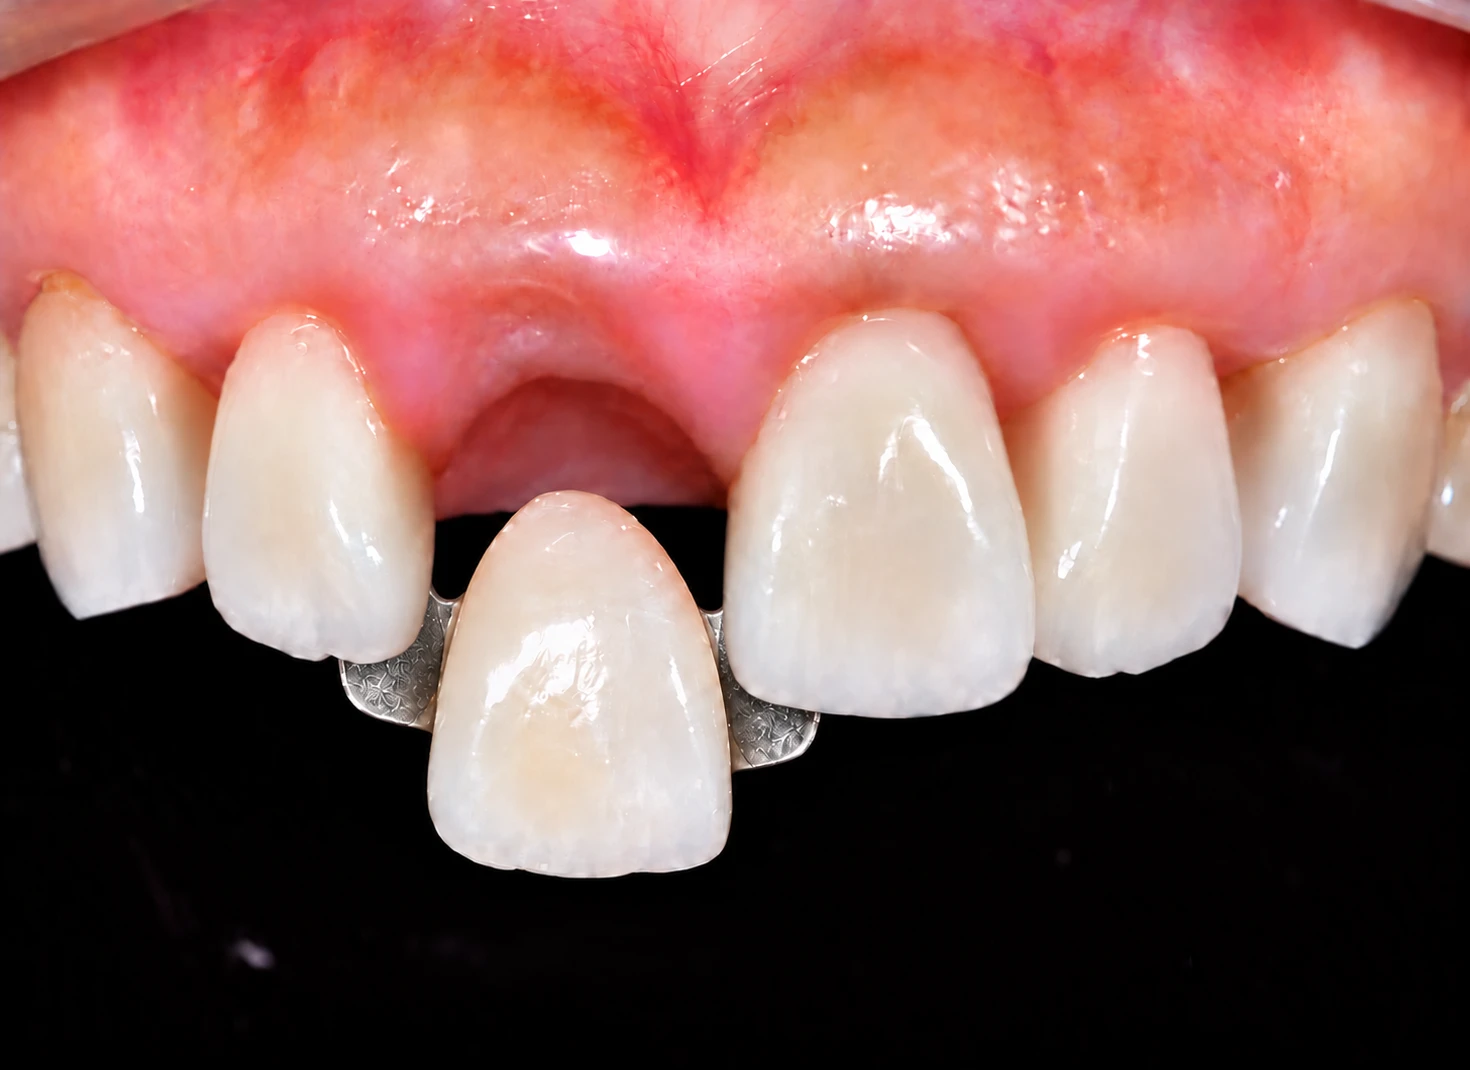
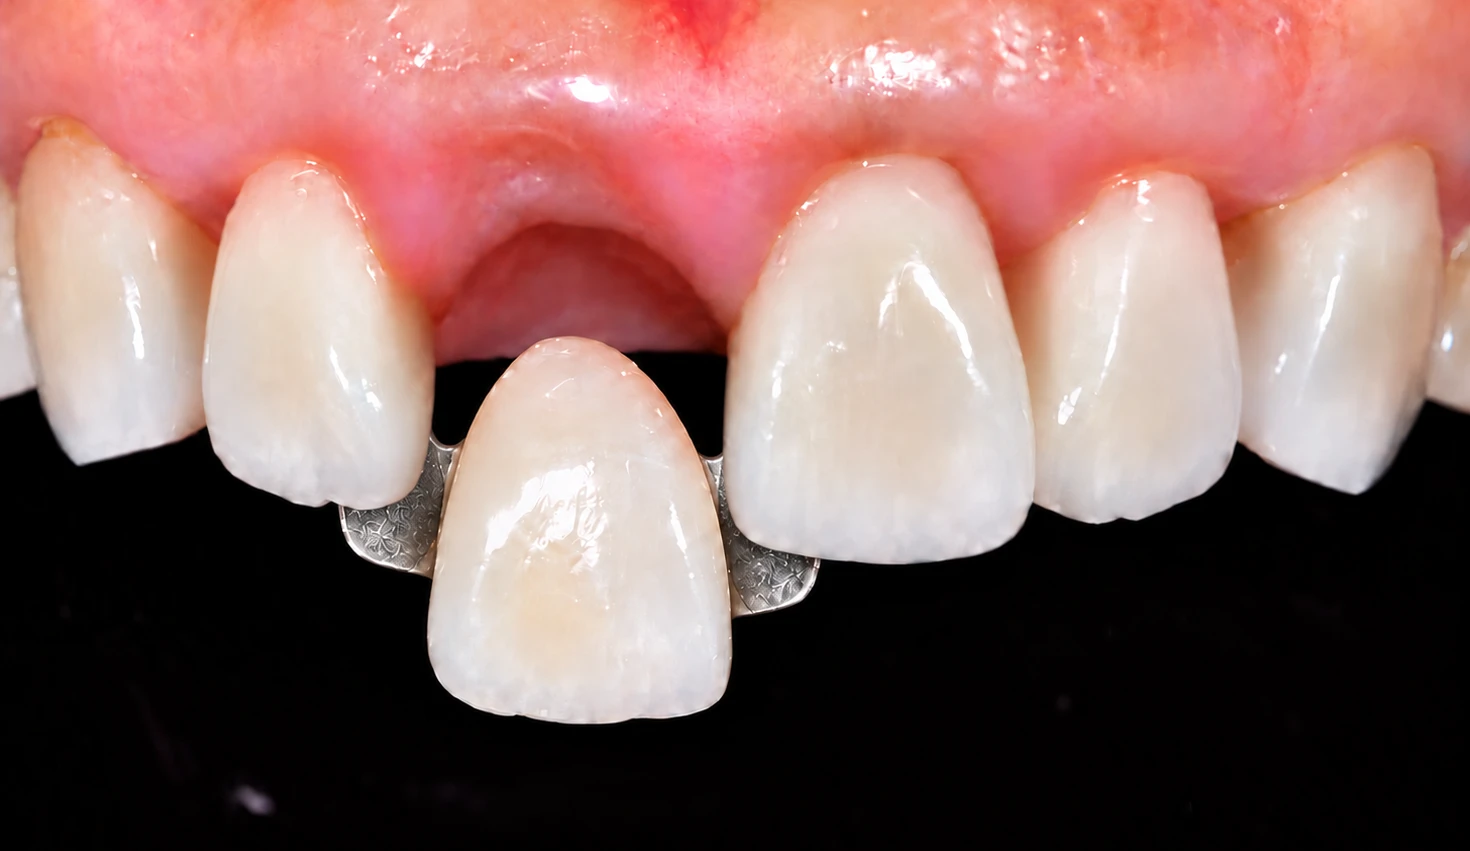
治療介紹： - 馬里蘭牙橋換成新照片（裁掉上方牙齦，畫面集中在牙橋） - 平板（觸控寬 600px 以上，或寬 600～1100px）放大字體：內文 17.5px、卡片標題 21px，搜尋、分類、圖說與計劃單 ⓘ 視窗一起放大；列印不受影響 - 示意圖與照片置中

diff --git a/treatment-info.js b/treatment-info.js
@@ -67,7 +67,7 @@ const TREATMENT_INFO=[
  steps:['修磨牙齒、口內掃描或取模','配戴臨時假牙','技工室製作牙冠','試戴、調整咬合與顏色後黏著'],
  time:'約 2～3 次，前後約 1～3 週。',
  care:['治療後幾天可能對冷熱敏感，通常會慢慢改善','仍要確實刷牙、使用牙線']},
-{id:'maryland',cat:'固定式贗復',title:'馬里蘭牙橋',items:['馬里蘭牙橋'],photo:{src:'media/maryland.webp',alt:'馬里蘭牙橋：假牙兩側的金屬翼片黏在鄰牙內側'},
+{id:'maryland',cat:'固定式贗復',title:'馬里蘭牙橋',items:['馬里蘭牙橋'],photo:{src:'media/maryland.webp?v=2',alt:'馬里蘭牙橋：假牙兩側的金屬翼片黏在鄰牙內側'},
  what:'缺一顆牙（多為前牙）時，假牙兩側（或一側）有薄薄的翼片，黏在隔壁牙齒的內側來固定。隔壁牙齒只需要很少量的修磨，是不植牙時較保守的固定方式。',
  who:['缺一顆前牙、隔壁牙齒健康的人','年紀尚輕、暫時不適合植牙的人','不想大量磨隔壁牙齒的人'],
  steps:['評估咬合與隔壁牙齒狀況','微量修整牙齒內側、取模','製作牙橋','試戴後黏著'],
@@ -335,9 +335,9 @@ const TI_CSS=`
 .ti-body{font-size:15px;line-height:1.7}
 .ti-body p{margin:0}
 .ti-what{margin-bottom:12px!important}
-.ti-fig{margin:0 0 14px}.ti-fig svg{display:block;width:100%;height:auto}
+.ti-fig{margin:0 auto 14px}.ti-fig svg{display:block;width:100%;height:auto}
 .ti-fig figcaption{display:grid;margin-top:6px;text-align:center;font-size:13px;line-height:1.45}
-.ti-photo{margin:0 0 14px}.ti-photo img{display:block;width:auto;max-width:100%;max-height:380px;height:auto;border-radius:12px;border:1px solid var(--line)}
+.ti-photo{margin:0 0 14px}.ti-photo img{display:block;margin:0 auto;width:auto;max-width:100%;max-height:380px;height:auto;border-radius:12px;border:1px solid var(--line)}
 @media print{.ti-fig,.ti-photo{break-inside:avoid}}
 .ti-sec{margin-top:12px}
 .ti-sec h4{margin:0 0 4px;font-size:15px;color:var(--accent);display:flex;align-items:center;gap:6px}
@@ -356,5 +356,14 @@ const TI_CSS=`
 .ti-str td.mpa{white-space:nowrap;font-weight:700}
 .ti-str tr.cur td{background:var(--accent-soft)}
 @media print{.ti-str-btn{display:none}}
+/* 平板（觸控、寬 600px 以上，或寬 600～1100px）：字放大，方便拿給病人看 */
+@media screen and (min-width:600px) and (pointer:coarse),screen and (min-width:600px) and (max-width:1100px){
+  .ti-body{font-size:17.5px;line-height:1.75}
+  .ti-sec h4{font-size:17.5px}
+  .ti-fig figcaption{font-size:15.5px}
+  .ti-str table{font-size:15px}
+  .ti-str-btn{font-size:14px;padding:2px 11px}
+  .ti-disclaimer{font-size:14px}
+}
 `;
 const TI_DISCLAIMER='以上為一般性說明，實際治療方式、次數與時間依醫師檢查診斷為準；有任何疑問歡迎詢問醫師或助理。';

diff --git a/treatments.html b/treatments.html
@@ -67,6 +67,22 @@ details.ti[open]>summary .lead{display:none}
 .print-head,.print-foot{display:none}
 footer.disc{font-size:12px;color:var(--muted);margin-top:28px;text-align:center}
 @media (max-width:520px){header.top h1{font-size:21px}}
+/* 平板：標題、搜尋、分類、卡片摘要的字放大（內文放大在 treatment-info.js 的 TI_CSS） */
+@media screen and (min-width:600px) and (pointer:coarse),screen and (min-width:600px) and (max-width:1100px){
+  body{font-size:17px}
+  header.top h1{font-size:28px}header.top .sub{font-size:15px}
+  .tools input{font-size:17px;padding:11px 14px}
+  .chips button{font-size:16px;padding:6px 15px}
+  .btn-sm{font-size:15px;padding:5px 12px}
+  section.cat>h2{font-size:22px}section.cat>.desc{font-size:16px}
+  details.ti>summary{padding:15px 18px}
+  details.ti>summary .t{font-size:21px}
+  details.ti>summary .lead{font-size:16px;margin-left:13px}
+  .ti-in{padding:4px 18px 16px}
+  .ti-items span{font-size:14px;padding:2px 11px}
+  .sel-bar{font-size:16px}
+  footer.disc{font-size:14px}
+}
 /* ---- 列印：A4，只印標記 .pr 的項目 ---- */
 @page{size:A4;margin:14mm 14mm 16mm}
 @media print{
@@ -111,7 +127,7 @@ footer.disc{font-size:12px;color:var(--muted);margin-top:28px;text-align:center}
   <div class="print-foot" id="printFoot"></div>
   <footer class="disc" id="disc"></footer>
 </div>
-<script src="treatment-info.js?v=15"></script>
+<script src="treatment-info.js?v=18"></script>
 <script src="treatment-figs.js?v=5"></script>
 <script>
 'use strict';

diff --git a/treatment-plan.html b/treatment-plan.html
@@ -580,7 +580,7 @@ window.OWNER_EMAILS = ['ccs93611@gmail.com']; // 要和 index.html、firestore.r
 <div id="gate" class="gate" hidden><div class="gate-box"><h2>新海美學牙醫・治療計劃單</h2><p id="gateMsg">連線中…</p><div id="gateActs"></div></div></div>
 <input type="file" id="importInput" accept="application/json,.json" hidden>
 
-<script src="treatment-info.js?v=15"></script>
+<script src="treatment-info.js?v=18"></script>
 <script src="treatment-figs.js?v=5"></script>
 <script>
 'use strict';
